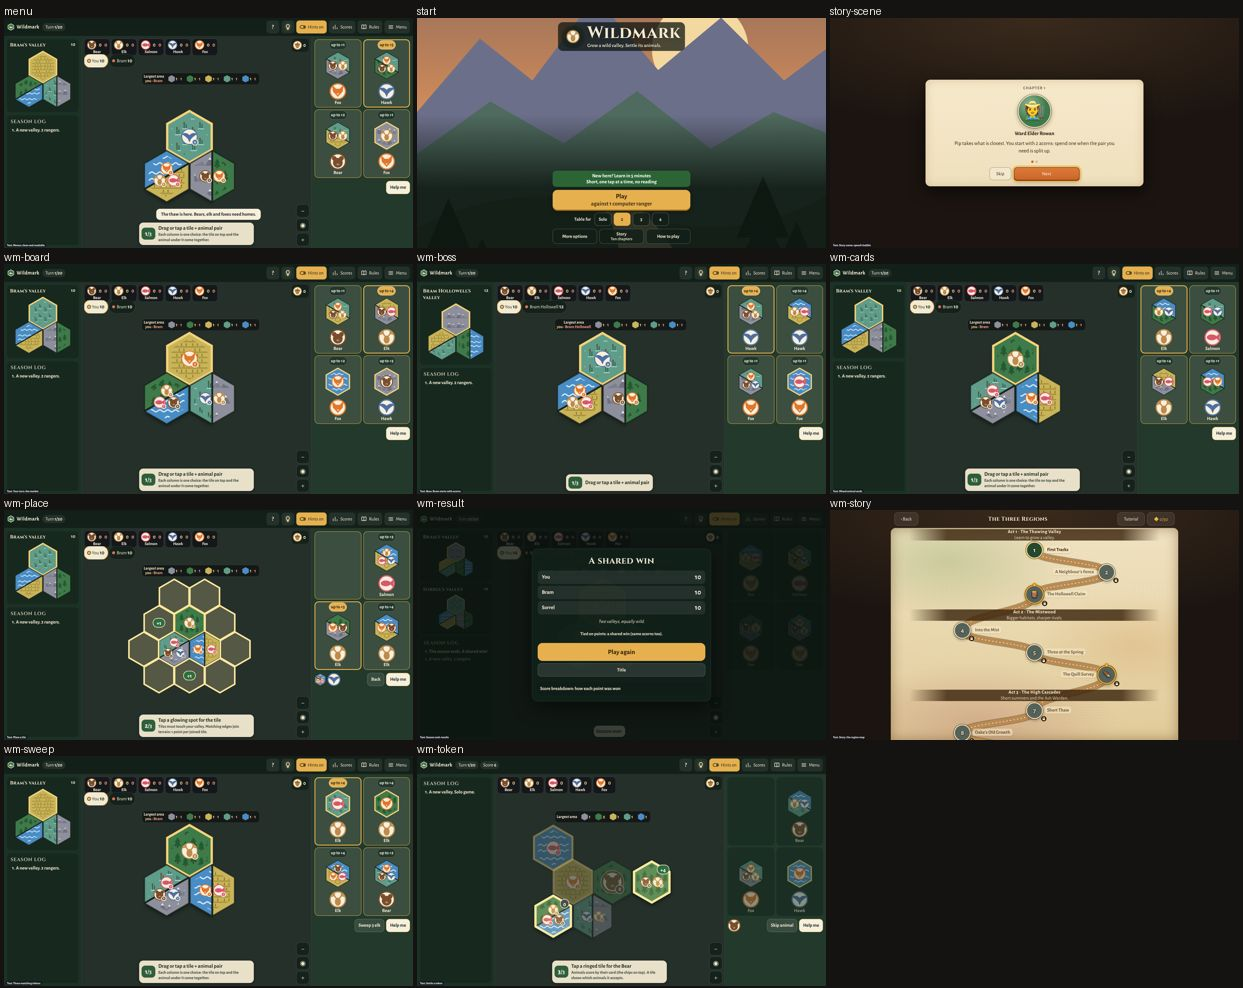
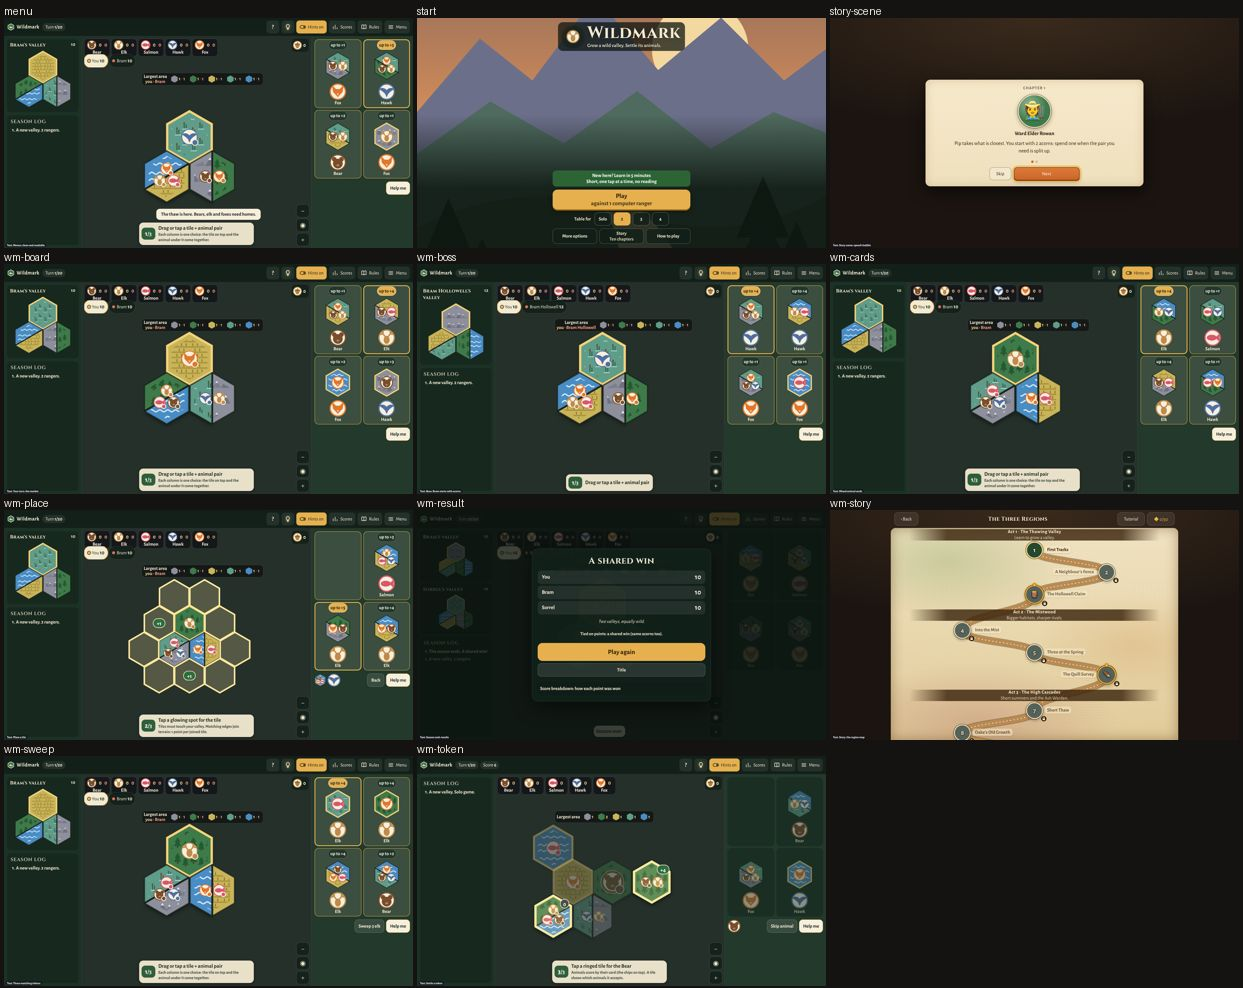
Wildmark readable: hide 6 px token letters, 16 px PC HUD text, zoom-in room, machine-speed full-game gate, final contact sheets

diff --git a/games-src/wildmark/w684-fullgame.js b/games-src/wildmark/w684-fullgame.js
@@ -1,0 +1,37 @@
+// W684 gate: one full quick game vs 1 computer ranger at machine speed (turbo), at 402x874 and 1366x768. Starts by tapping Play,
+// then plays the human seat through the game's own handlers (take / act). Checks: result screen shown, 0 page errors, < 60 s each,
+// auto-fit hex >= 72 px on every human tile step. Usage: NODE_PATH=$(npm root -g) node w684-fullgame.js [base url] [shots dir]
+const { turbo, budget, tick } = require('../scripts/turbo'); const { chromium } = require('playwright');
+const BASE = process.argv[2] || 'http://localhost:8780/wildmark/', OUT = process.argv[3];
+(async () => {
+  const b = await chromium.launch({ executablePath: '/opt/pw-browsers/chromium' }); let fail = 0;
+  for (const mob of [true, false]) {
+    const t0 = Date.now(), stop = budget(60000, 'w684 full game');
+    const c = await b.newContext({ viewport: mob ? { width: 402, height: 874 } : { width: 1366, height: 768 }, hasTouch: mob, isMobile: mob, serviceWorkers: 'block' }); await turbo(c);
+    const p = await c.newPage(), errs = []; p.on('pageerror', e => errs.push(String(e).slice(0, 120)));
+    await p.goto(BASE); await tick(p, 300);
+    await p.locator('#playB').click(); await tick(p, 300);
+    let minHex = 1e9, steps = 0, shot = false;
+    while (steps++ < 4000) {
+      const st = await p.evaluate(() => {
+        if (!G) return 'nog'; if (G.over) return 'over'; if (!myTurn() || UI.aiRun) return 'wait';
+        var ms = WM.moves(G).filter(function (m) { return m.t === 'take' || m.t === 'place' || m.t === 'tok' || m.t === 'back'; });
+        if (G.stage === 'tok') { var tk = ms.filter(function (m) { return m.t === 'tok'; }); ms = tk.length ? tk : ms; }
+        var m = ms[Math.floor(Math.random() * ms.length)], hex = G.stage === 'tile' ? 69.3 * UI.pan.z : 0;
+        if (m.t === 'take') take(m); else act(m); return 'hex' + hex;
+      });
+      if (st === 'over') break;
+      if (st.startsWith('hex') && +st.slice(3) > 0) minHex = Math.min(minHex, +st.slice(3));
+      if (OUT && !shot && steps > 120) { shot = true; await p.screenshot({ path: `${OUT}/late-${mob ? 'phone' : 'pc'}.png` }); }
+      await tick(p, st === 'wait' || st === 'nog' ? 400 : 120);
+    }
+    for (let k = 0; k < 40 && !(await p.evaluate(() => { var r = document.getElementById('rs'); return !!(r && !r.hidden); })); k++) await tick(p, 300);   // the result opens ~450 game-ms after the last move
+    const res = await p.evaluate(() => { var r = document.getElementById('rs'); return G && G.over && r && !r.hidden ? 'result ' + G.res.map(function (x) { return x.total; }).join('-') : 'no result (stage ' + (G && G.stage) + ', cur ' + (G && G.cur) + ', over ' + (G && G.over) + ', aiRun ' + UI.aiRun + ', moves ' + (G && JSON.stringify(WM.moves(G).slice(0, 3))) + ')'; });
+    if (OUT) await p.screenshot({ path: `${OUT}/result-${mob ? 'phone' : 'pc'}.png` });
+    const sec = ((Date.now() - t0) / 1000).toFixed(1), ok = res.startsWith('result') && !errs.length && minHex >= 72;
+    if (!ok) fail++;
+    console.log(`${ok ? 'PASS' : 'FAIL'} ${mob ? '402x874' : '1366x768'}: ${res}, ${sec} s, min auto-fit hex ${Math.round(minHex)} px, errors ${errs.length} ${errs.join(' | ')}`);
+    stop(); await c.close();
+  }
+  await b.close(); process.exit(fail ? 1 : 0);
+})();

diff --git a/games-src/wildmark/src/ui.js b/games-src/wildmark/src/ui.js
@@ -320,7 +320,7 @@ function nearTarget(x, y) {
 }
 function panTo(c) { var q = pix(c), sr = safeRect(), p = UI.pan; p.tx = (sr.l + sr.r) / 2 - q[0] * p.z; p.ty = (sr.t + sr.b) / 2 - q[1] * p.z; applyPan(); }
 function applyPan() { var v = $('#vp'); if (v) v.setAttribute('transform', 'translate(' + UI.pan.tx.toFixed(1) + ',' + UI.pan.ty.toFixed(1) + ') scale(' + UI.pan.z.toFixed(3) + ')'); clearTimeout(UI.eaT); UI.eaT = setTimeout(edgeArrows, 60); }
-function zoomAt(f, cx, cy) { var p = UI.pan, z = Math.max(0.3, Math.min(2.6, p.z * f)); f = z / p.z; p.tx = cx - (cx - p.tx) * f; p.ty = cy - (cy - p.ty) * f; p.z = z; applyPan(); }
+function zoomAt(f, cx, cy) { var p = UI.pan, z = Math.max(0.3, Math.min(3.5, p.z * f));   /* W684: room to zoom in past the 2.5 auto-fit */ f = z / p.z; p.tx = cx - (cx - p.tx) * f; p.ty = cy - (cy - p.ty) * f; p.z = z; applyPan(); }
 (function wirePan() {
   var pts = {}, start = null, moved = false;
   function svgXY(e) { var r = $('#board').getBoundingClientRect(); return [e.clientX - r.left, e.clientY - r.top]; }

diff --git a/games-src/wildmark/src/skin.css b/games-src/wildmark/src/skin.css
@@ -599,3 +599,8 @@ html body .gx-set-nav{flex-wrap:wrap;overflow-x:visible}
   #rs .rbox{max-width:760px}
 }
 html body .gxc-lock{font-size:13px!important;text-indent:-99px;overflow:visible;clip-path:circle(50%);white-space:nowrap;line-height:18px}   /* W684: lock glyph hidden by indent, not a 0 px font */
+#map .tk.slot text,#map .tk.lbl text{display:none}   /* W684: the 6 px initial letters on map tokens go; silhouette + colour ring identify the animal */
+html body .gxc-lock{font-size:16px!important;color:#f3ead2}
+@media (min-width:1000px){
+  html body :is(.cc i,#terr .tl,#terr .tl small,#terr .sep,#terr .tc b,#terr .tc .rv,.gain,.twh b,.tlab,#storyB small){font-size:16px!important}
+}
